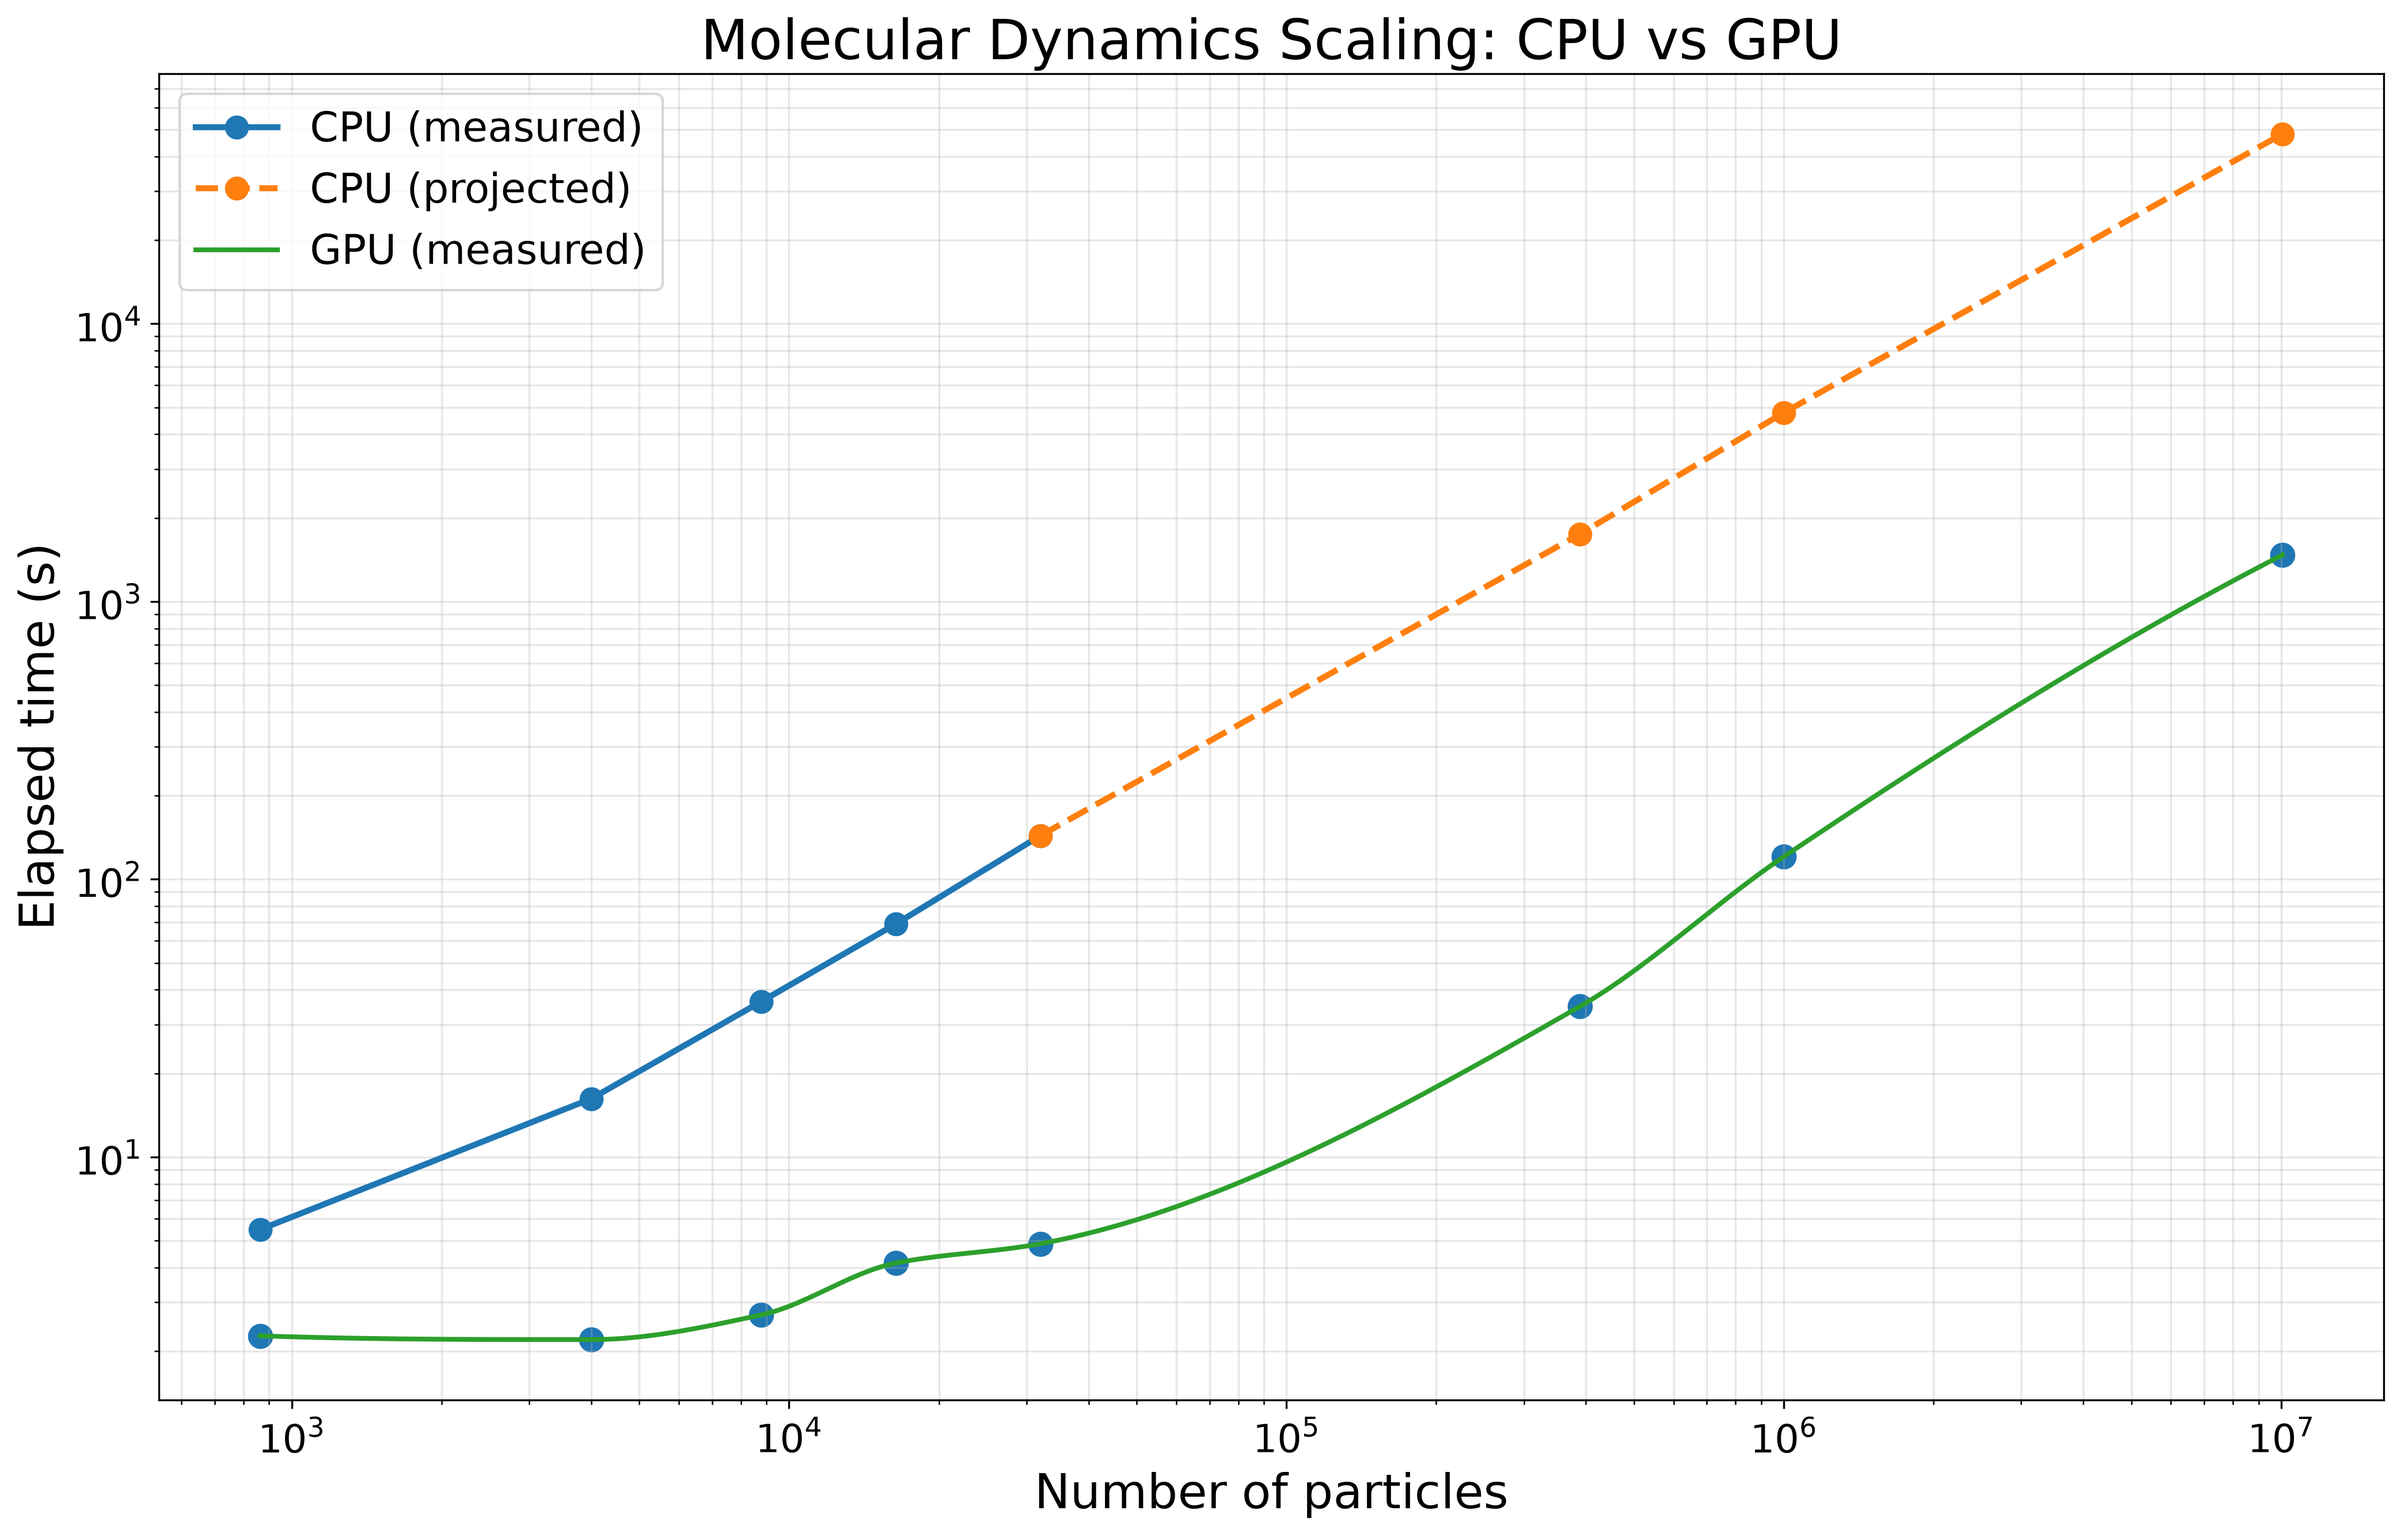
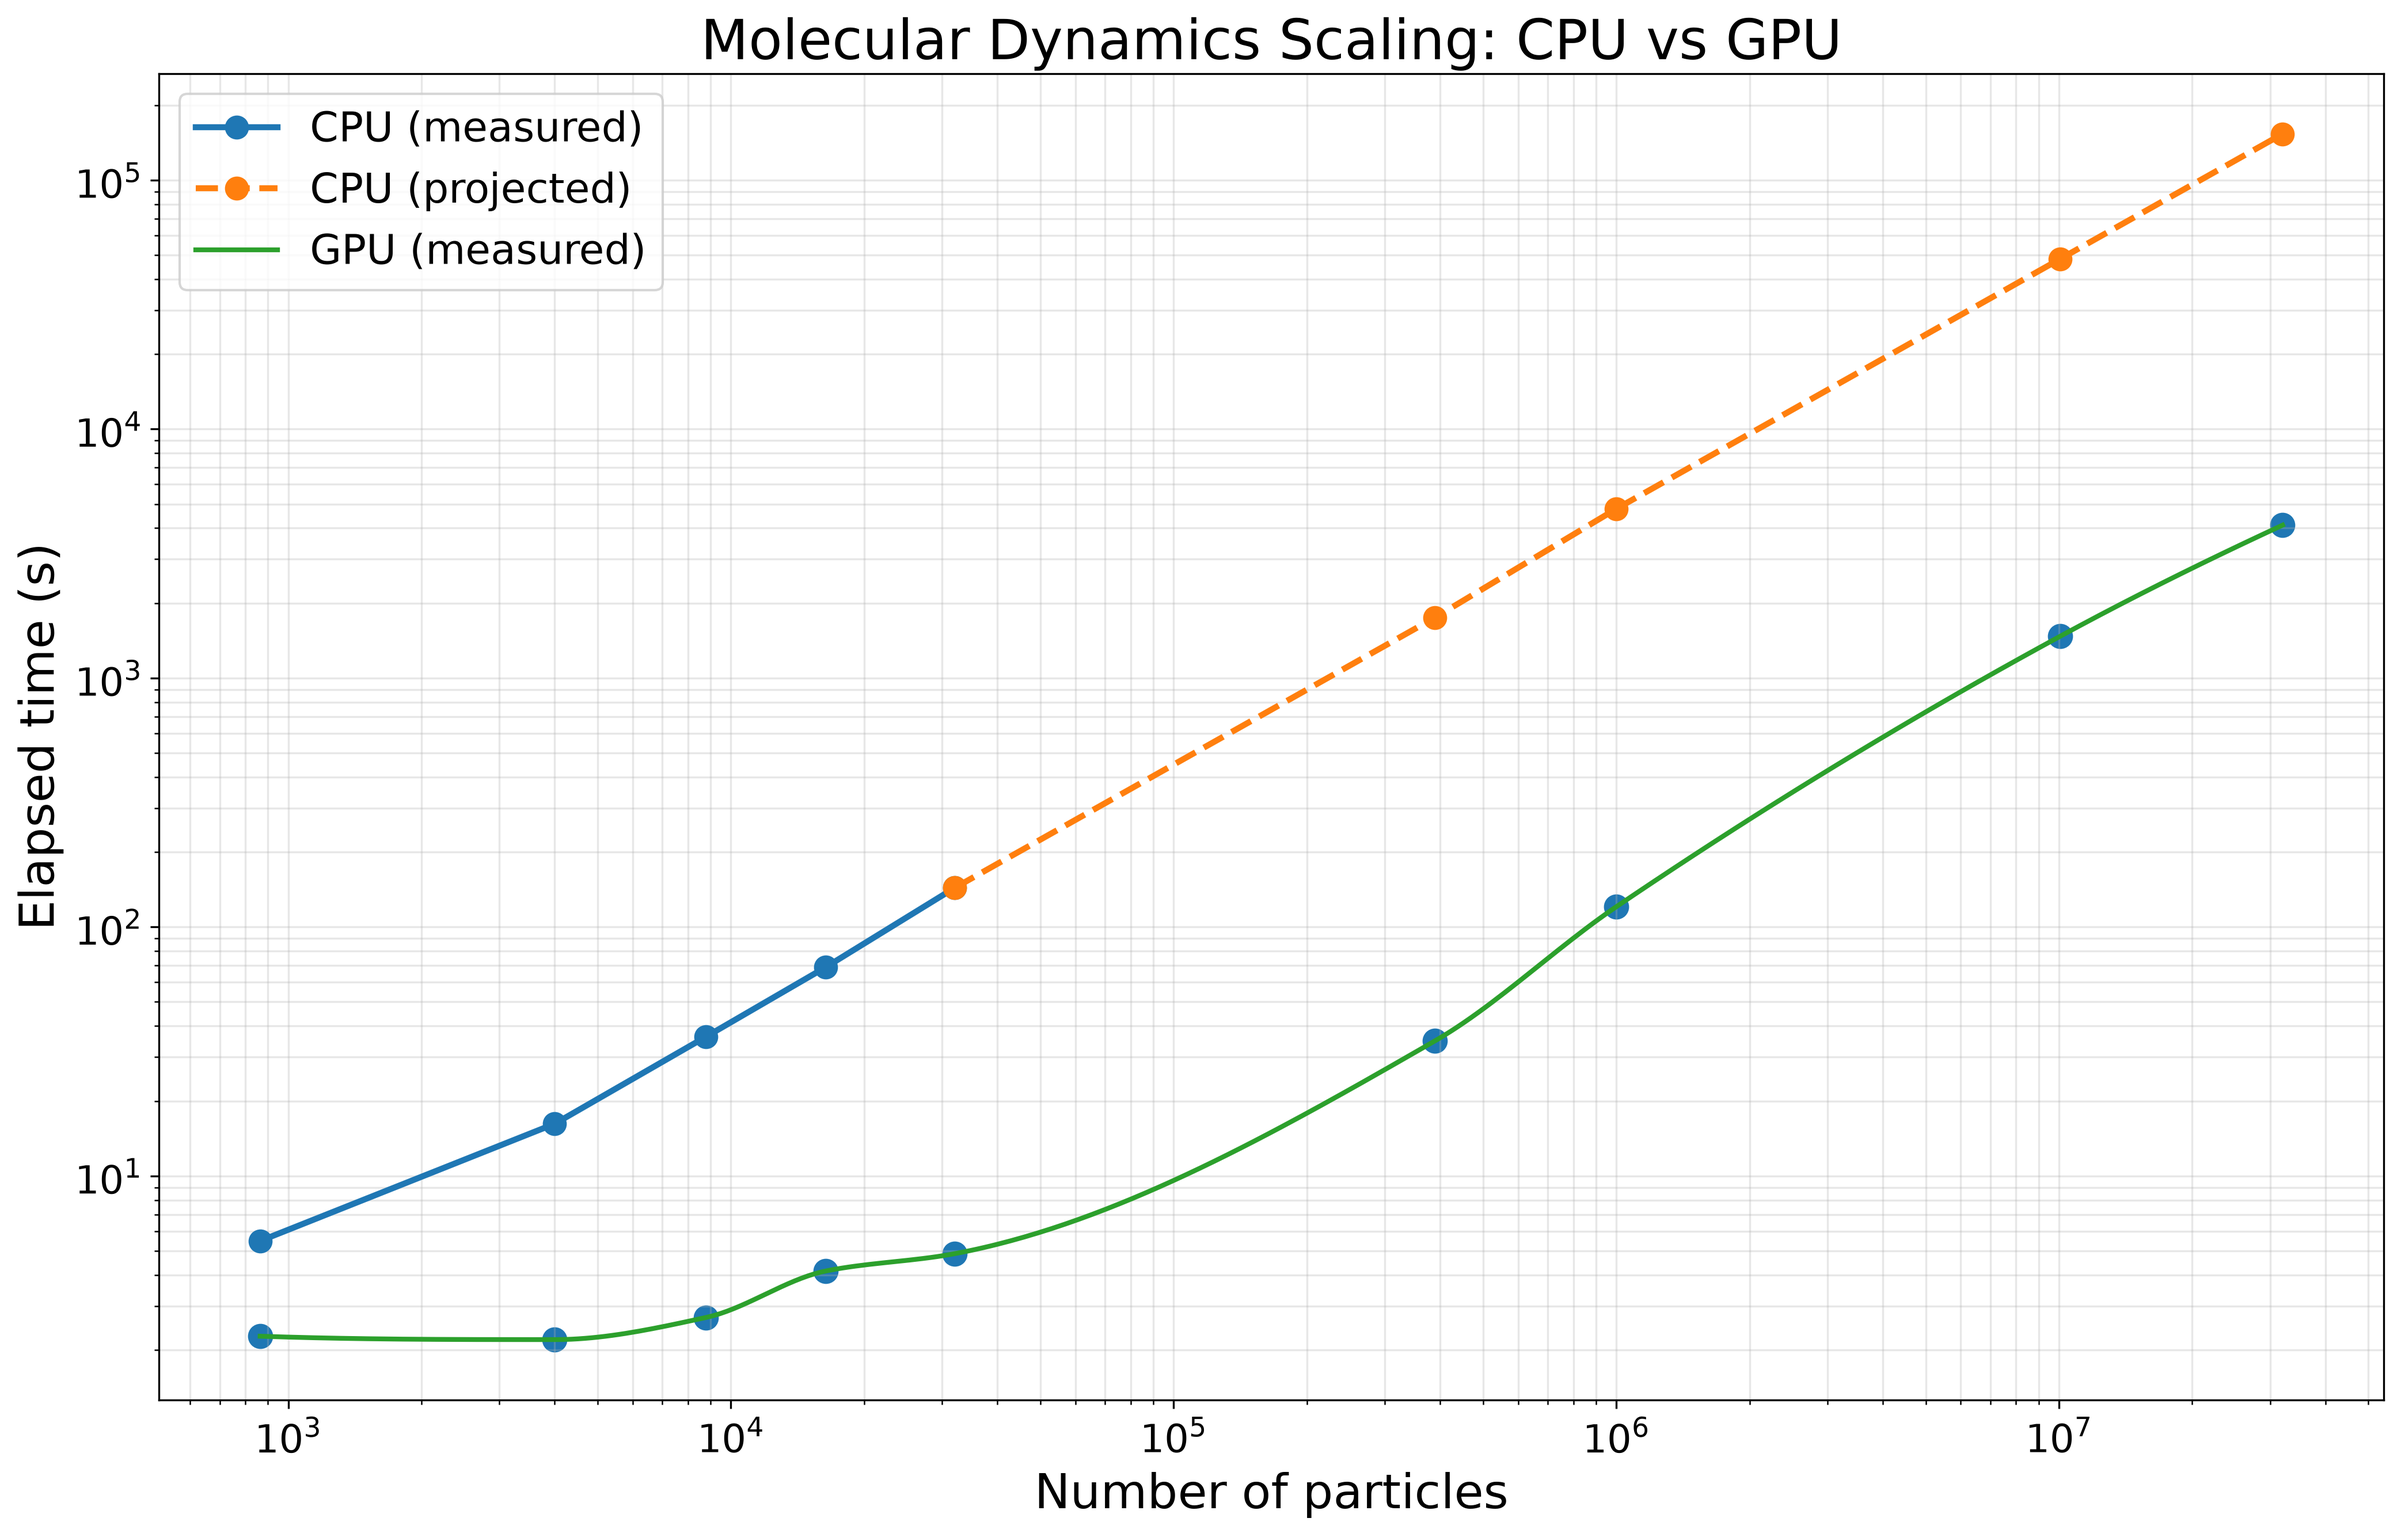
Updated README

diff --git a/README.md b/README.md
@@ -2,7 +2,7 @@
 
 ## Overview
 
-A 3D Molecular Dynamics Engine written in C++, which can simulate 1M particles in minutes(~121s).
+A 3D Molecular Dynamics Engine written in C++, which can simulate 1M particles in 2 minutes(~121s).
 
 Currently, this project implements the following
 
@@ -183,7 +183,7 @@ Furthermore, to bypass the severe FP64 (Double Precision) hardware throttling on
 
 ![CPU vs GPU Scaling](assets/cpu_vs_gpu_scaling.png)
 
-As shown in the scaling benchmark, The CUDA implementation scales substantially better with increasing particle count. For a mid-sized system of 32,000 particles, the GPU achieves a **~28x execution speedup** (4.87 seconds vs. 136 seconds). However, the true hardware scaling is revealed at macroscopic limits: For 1,000,188 particles over 10,000 timesteps, the GPU completes the simulation in 120.59 s (2 min). The CPU runtime is projected at approximately 4,783 s (80 min) based on the runtime estimate from an interrupted run, corresponding to an estimated ~39.7× speedup. This is all while maintaining an  $< 10^{-7}$ error on global energy conservation.
+As shown in the scaling benchmark, The CUDA implementation scales substantially better with increasing particle count. For a mid-sized system of 32,000 particles, the GPU achieves a **~28x execution speedup** (4.87 seconds vs. 136 seconds). However, the true hardware scaling is revealed at macroscopic limits: For 1,000,188 particles over 10,000 timesteps, the GPU completes the simulation in 120.59 s (2 min). The CPU runtime is projected at approximately 4,783 s (80 min) based on the runtime estimate from an interrupted run, corresponding to an estimated ~39.7× speedup. This is all while maintaining an  $< 10^{-7}$ error on global energy conservation. For 10,061,824 particles over 10,000 timesteps, the GPU takes 1471.13s (24.5 min) and for 32,000,000 particles over 10,000 timesteps, the GPU takes 4112.17s (68.5 min).
 
 ### Hardware Profiling & Bottleneck Analysis (NVIDIA Nsight Compute)
 
